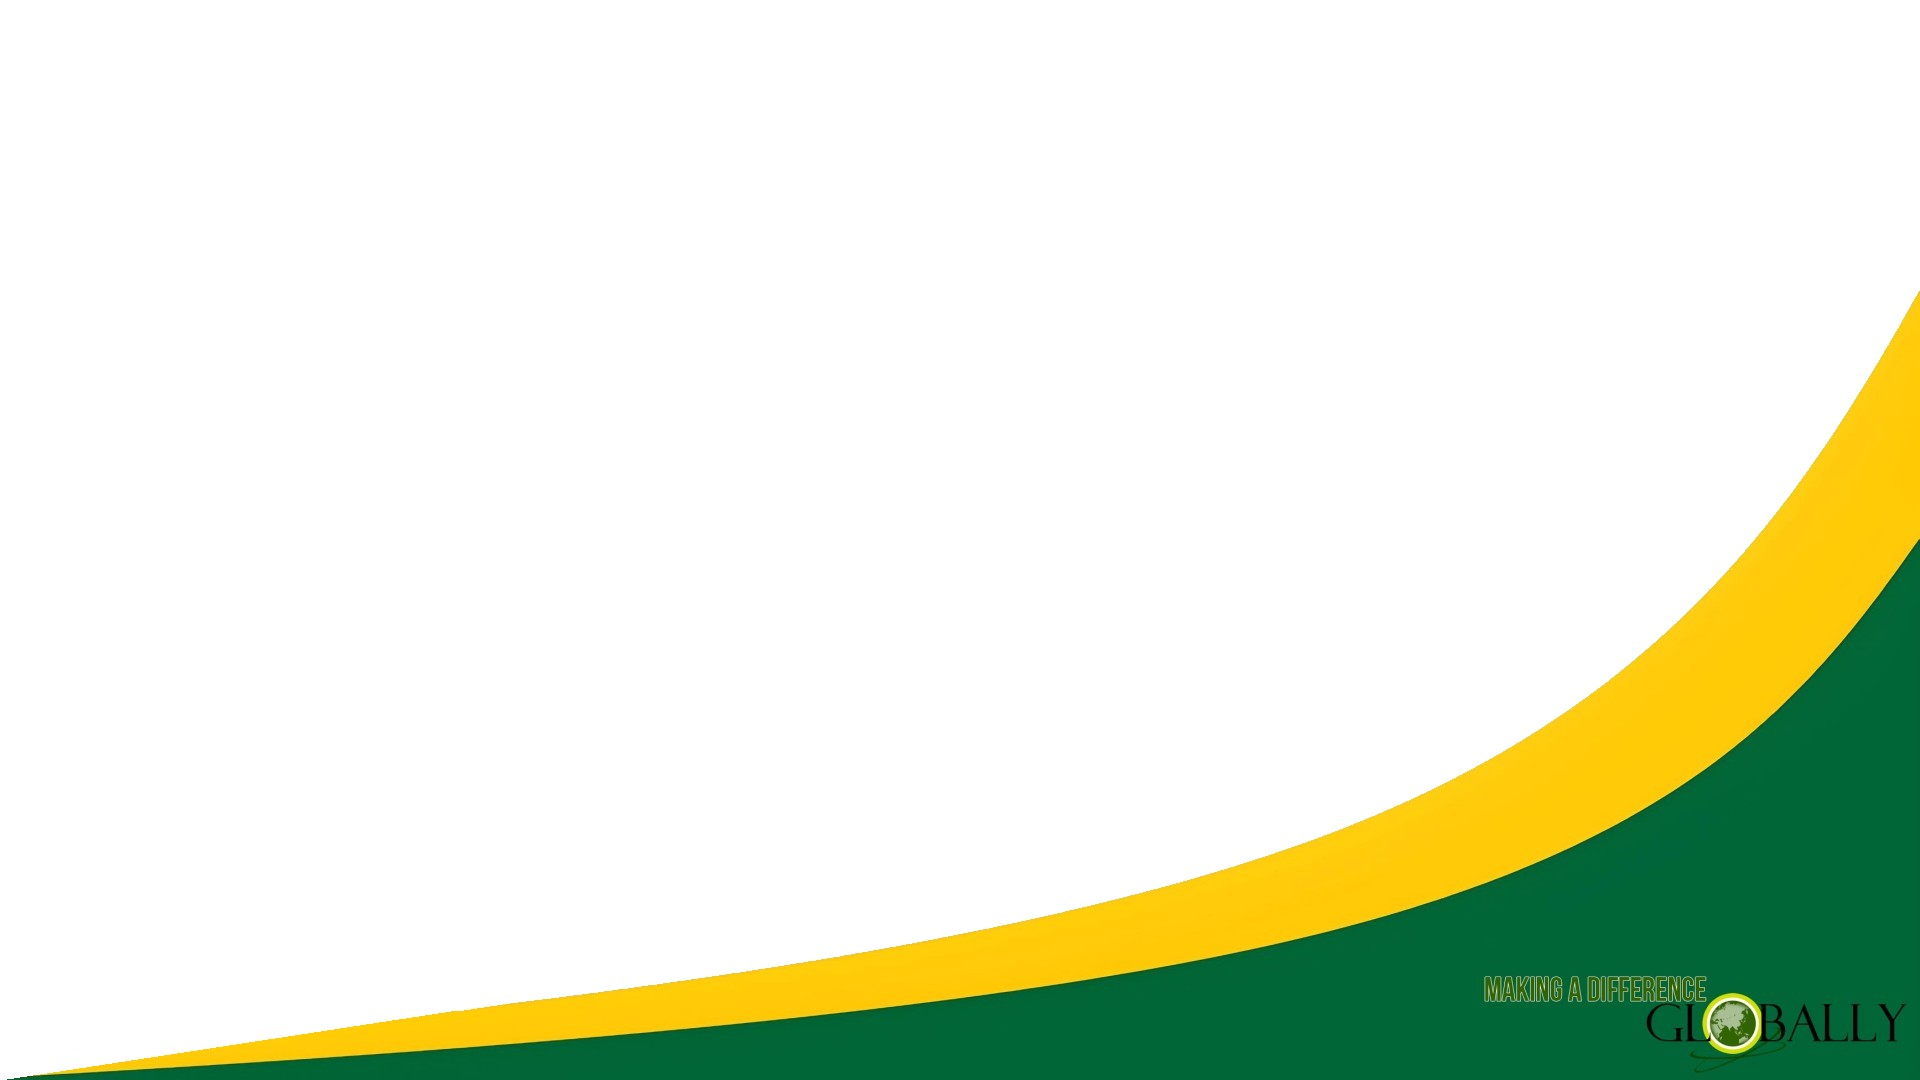
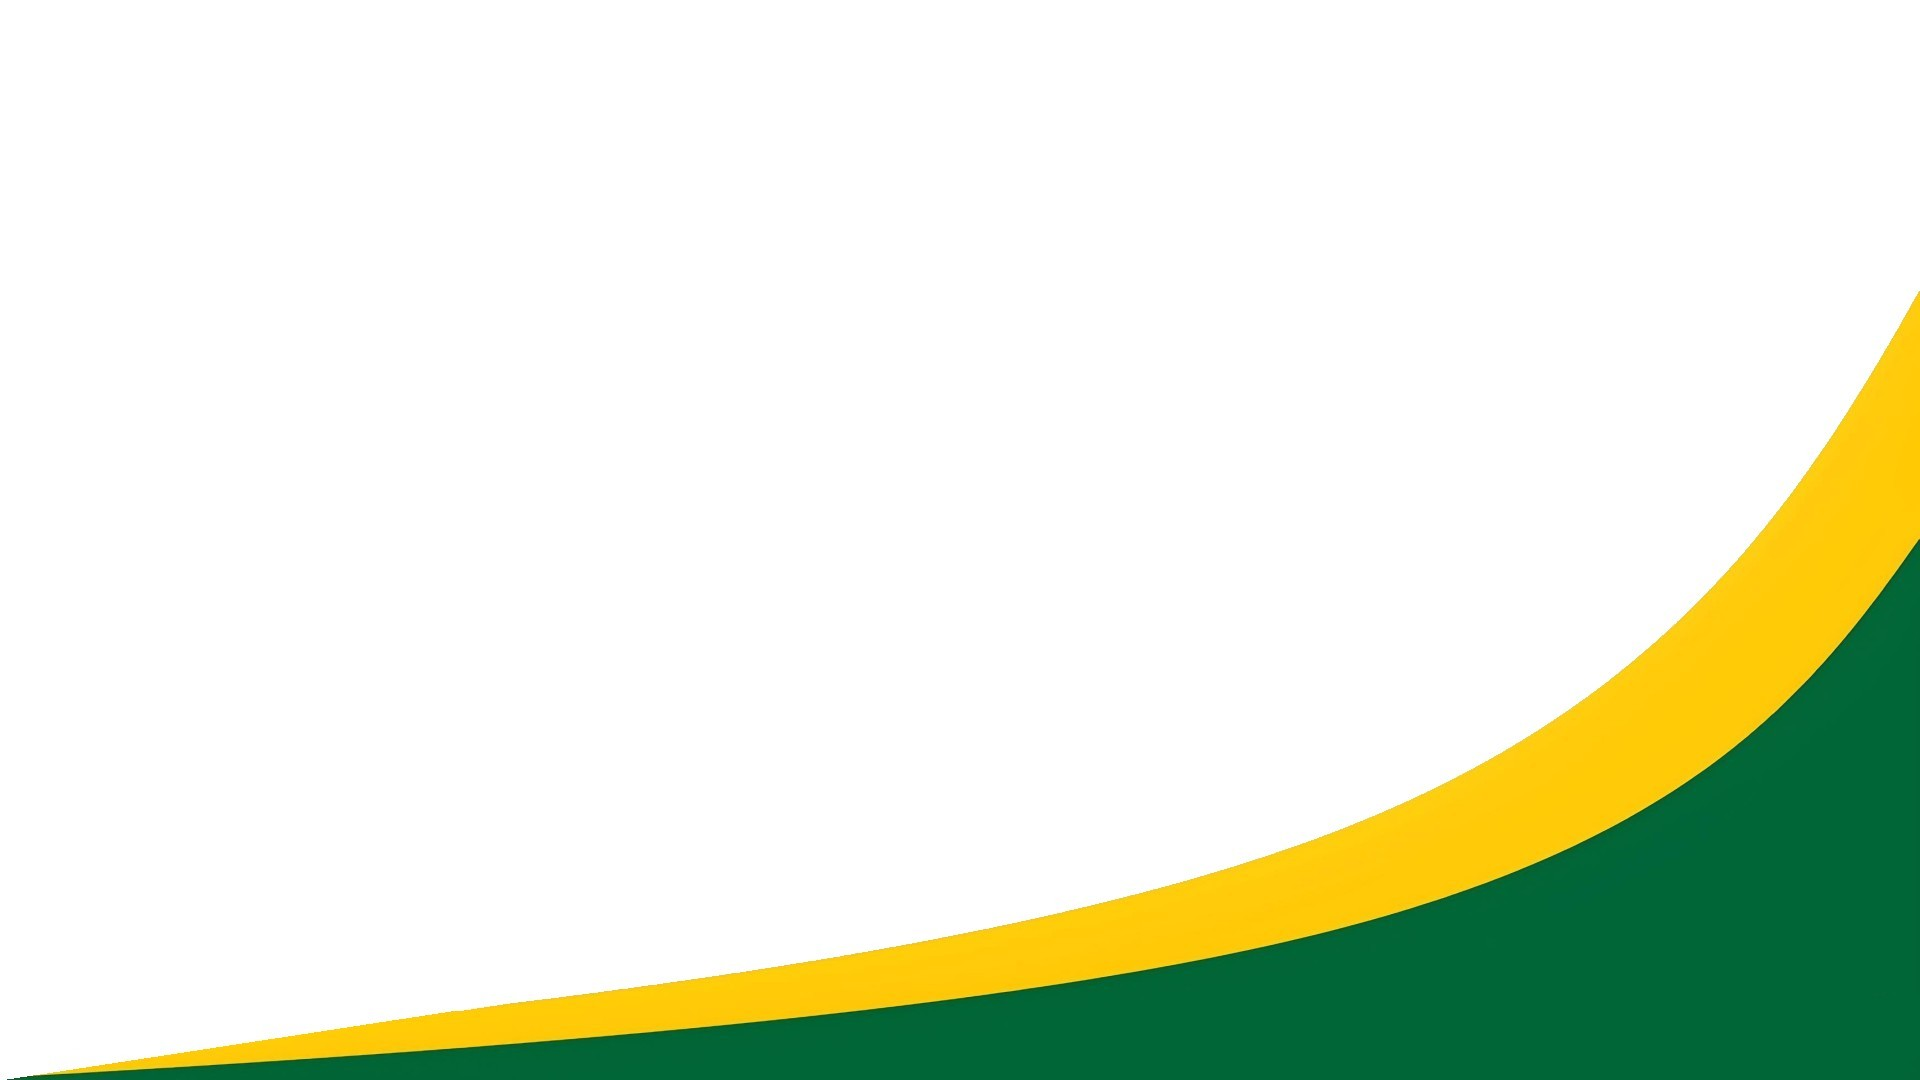
welcome and login blade updates

Changed region(s): [[0.75, 0.8861, 0.9688, 0.9778]]

diff --git a/resources/views/auth/login.blade.php b/resources/views/auth/login.blade.php
@@ -40,7 +40,7 @@
       <x-auth-session-status class="mb-4" :status="session('status')" />
       <x-input-label for="account_type" :value="__('Seclect Account Type')" />
       <select id="account_type" name="account_type"
-        class="block mt-1 w-full border-gray-300 focus:border-green-700 focus:ring-1 focus:ring-green-700 focus:ring-opacity-100 rounded-md shadow-sm">
+        class="block mt-1 w-full border-gray-300 focus:border-spupGreen focus:ring-1 focus:ring-spupGreen focus:ring-opacity-100 rounded-md shadow-sm">
         <option value="" disabled selected>Select Account Type</option>
         <option value="admin">Administrator</option>
         <option value="registrar">Registrar</option>
@@ -58,7 +58,7 @@
     <div class="mt-4">
       <x-input-label for="email" :value="__('Email')" />
       <x-text-input id="email"
-        class="block mt-1 w-full focus:border-green-700 focus:ring-1 focus:ring-green-700 focus:ring-opacity-100"
+        class="block mt-1 w-full focus:border-spupGreen focus:ring-1 focus:ring-spupGreen focus:ring-opacity-100"
         type="email" name="email" :value="old('email')" required autofocus autocomplete="username"
         placeholder="Enter Email" />
       <x-input-error :messages="$errors->get('email')" class="mt-2" />
@@ -69,7 +69,7 @@
       <x-input-label for="password" :value="__('Password')" />
 
       <x-text-input id="password"
-        class="block mt-1 w-full focus:border-green-700 focus:ring-1 focus:ring-green-700 focus:ring-opacity-100"
+        class="block mt-1 w-full focus:border-spupGreen focus:ring-1 focus:ring-spupGreen focus:ring-opacity-100"
         type="password" name="password" required autofocus autocomplete="current-password"
         placeholder="Enter Password" />
 

diff --git a/resources/views/welcome.blade.php b/resources/views/welcome.blade.php
@@ -26,13 +26,13 @@
   }
 
   .mainBg {
-    background: url('{{ asset("/images/backgrounds/mainBg.jpg") }}') top right no-repeat;
-    background-size: contain;
+    background: url('{{ asset("/images/backgrounds/mainBg3.jpg") }}') top right no-repeat;
+    background-size: cover;
     background-repeat: no-repeat;
   }
 </style>
 
-<body class="text-[#1b1b18] flex flex-col min-h-screen">
+<body class="text-[#1b1b18] flex flex-col min-h-screen mainBg">
   <header class="w-full max-w-7xl mx-auto p-6 flex items-center justify-between">
     <div class="flex items-center">
       <img src="{{ asset('images/backgrounds/spup-logo.png') }}" alt="Logo" class="h-16 w-auto mr-4"> <!-- Adjust height as needed -->
@@ -64,7 +64,7 @@
     </nav>
   </header>
 
-  <main class="mainBg w-full flex-grow flex flex-col items-center justify-center text-center">
+  <main class="w-full flex-grow flex flex-col items-center justify-center text-center">
     <section class="relative z-10 max-w-3xl px-6 py-12 text-center">
       <h1 class="text-5xl md:text-6xl font-bold text-gray-900 tracking-tight mb-6">
         Good Moral Application

diff --git a/resources/views/layouts/guest.blade.php b/resources/views/layouts/guest.blade.php
@@ -21,17 +21,22 @@
     background: url('{{ asset("/images/backgrounds/spup-logo.png") }}') center/contain no-repeat;
     background-size: 40%;
   }
+
+  .mainBg {
+    background: url('{{ asset("/images/backgrounds/mainBg3.jpg") }}') top right no-repeat;
+    background-size: cover;
+    background-repeat: no-repeat;
+  }
 </style>
 
-<body class="text-[#1b1b18] flex flex-col min-h-screen">
+<body class="text-[#1b1b18] flex flex-col min-h-screen mainBg">
 
-  <main class="bg-custom flex flex-col items-center justify-center flex-grow text-center relative">
-    <div class="bg-white/60 backdrop-blur-sm absolute inset-0 w-full h-full"></div>
-    <div class="relative z-10 max-w-5xl p-10 text-center">
+  <main class="w-full flex-grow flex flex-col items-center justify-center text-center">
     {{ $slot }}
-    </div>
-
   </main>
+  <footer class="bg-gray-200 text-center py-2">
+    <p class="text-xs text-gray-600">© {{ date('Y') }} Good Moral Certification Portal. All rights reserved.</p>
+  </footer>
 </body>
 
 
